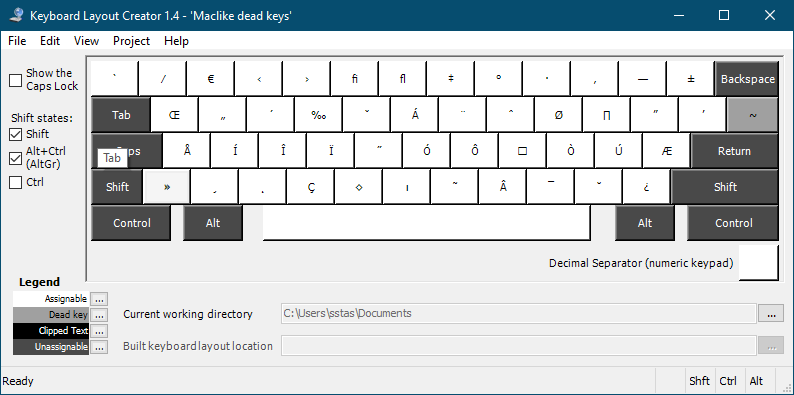
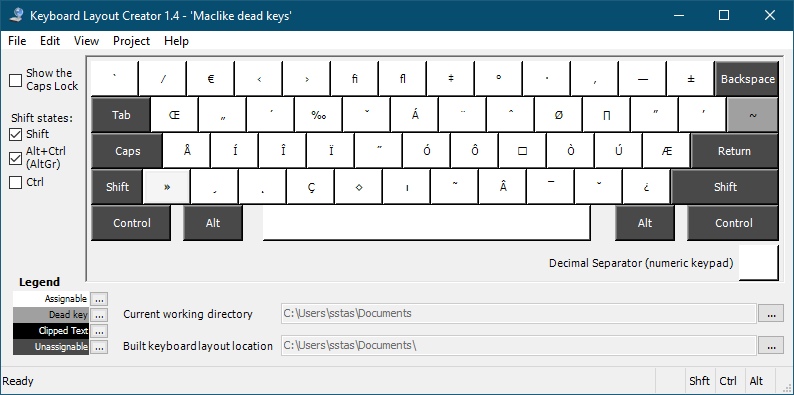
Add release link and fix Shift-AltGr.png screenshot

Changed region(s): [[0.1511, 0.8506, 0.5441, 0.881], [0.1209, 0.3646, 0.1814, 0.4253]]

diff --git a/README.md b/README.md
@@ -46,7 +46,7 @@ Differences vs the MacOS alt layout:
 Installation and usage
 ----------------------
 
-- Download the latest version of the keyboard package installer. TODO: add link to Github releases.
+- Download maclike.zip in the [latest version of the keyboard package installer][release].
 - Run setup.exe and restart Windows.
 - Set up the keyboard on Windows. E.g on Windows 10:
   - Navigate to settings > Time & Language > Language
@@ -86,4 +86,5 @@ For more info see ["How do I remove a keyboard layout" on MSDN][remove-layout].
 
 [MacOS dead keys]: https://support.apple.com/en-ie/guide/mac-help/mh27474/mac
 [Microsoft Keyboard Layout Creator]: https://www.microsoft.com/en-us/download/details.aspx?id=22339
+[release]: https://github.com/seppestas/maclike-windows-keyboard-layout/releases/latest
 [remove-layout]: https://social.msdn.microsoft.com/Forums/ie/en-US/6e143a03-3fda-43fd-831b-2c3056d732b1/how-do-i-remove-a-keyboard-layout
